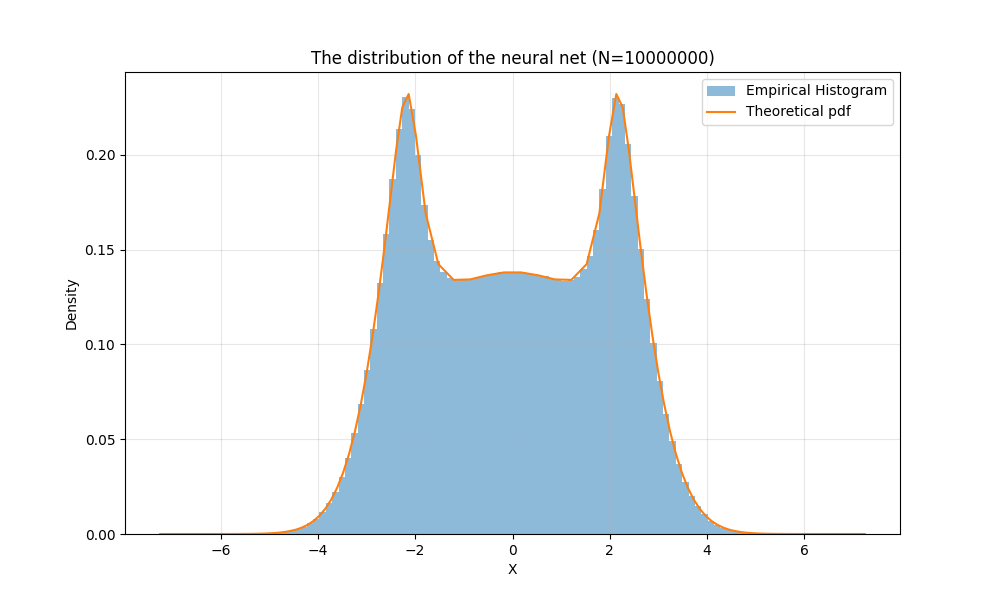
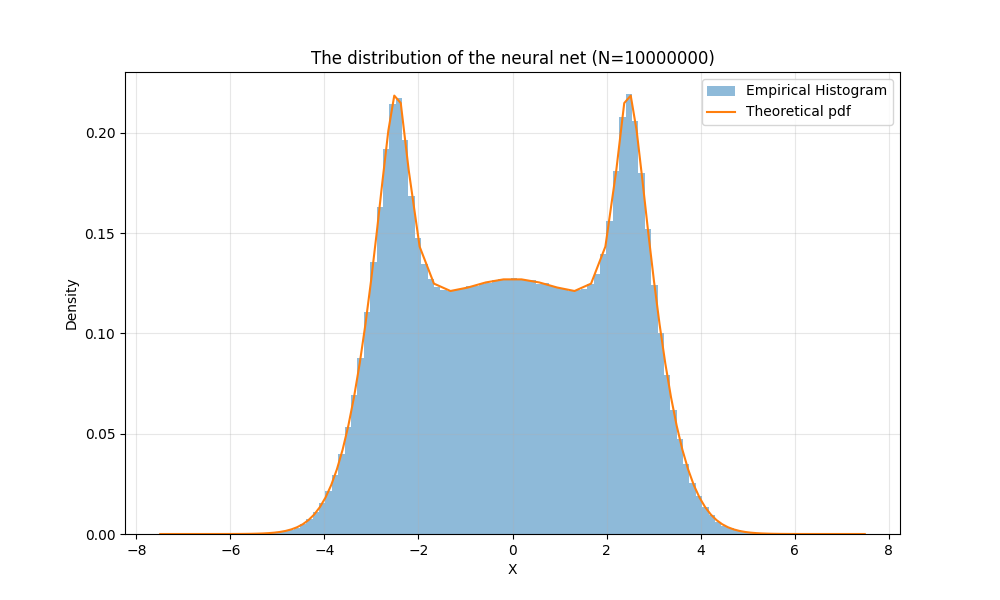
021726

diff --git a/SensitivityAnalysisModule/experiments/batman3.py b/SensitivityAnalysisModule/experiments/batman3.py
@@ -18,12 +18,13 @@ from src.model import (
     make_score_function, 
     make_mixing_likelihood_ratio,
     make_mixing_score_function,
-    loss_function, 
+    loss_function,
+    gradient_loss,
     Robbins_Monro
 )
 from src.utils import neural_net_plot, batman_plot, plot_diagnostic
 
-N_SAMPLES = 10000000
+N_SAMPLES = 1000000
 RNG = np.random.default_rng(17)
 CLIP_THRESHOLD = 100.0
 
@@ -42,6 +43,9 @@ d = 0.3
 a, b, c, d = 2.0, 0.5, 1.0, 0.2
 #
 
+
+
+
 theta = jnp.array([a, b, c, d])
 Z_space = np.linspace(-6.0, 6.0, 100)
 
@@ -57,17 +61,17 @@ Z_space = np.linspace(-6.0, 6.0, 100)
 V = lambda z: z**4
 
 learning_rate = 0.0005
-mixing_ratio = 0.5
+mixing_ratio = 0.1
 
-batch_size = 1000
+batch_size = 100
 num_iterations = N_SAMPLES // batch_size
 theta_history = []
 loss_history = []
 smoothed_loss_history = []
 
 # For training
-fast_score_fn = make_mixing_score_function(phi, 0.1)
-fast_L_fn = make_mixing_likelihood_ratio(f_jax, phi, 0.1)
+fast_score_fn = make_mixing_score_function(phi, mixing_ratio)
+fast_L_fn = make_mixing_likelihood_ratio(f_jax, phi, mixing_ratio)
 
 # For Estimation of the mean
 true_L_fn = make_likelihood_ratio(f_jax, phi)
@@ -104,7 +108,7 @@ for i in range(num_iterations):
         best_iter = i
 
     # 5. Run Optimizer
-    theta_new = Robbins_Monro(
+    theta_new, raw_grad, avg_grad = Robbins_Monro(
         z_sample,
         theta,
         learning_rate,
@@ -119,27 +123,28 @@ for i in range(num_iterations):
     theta = theta_new
     theta_history.append(theta)
 
-    if i % 1000 == 0:
-        print(f"Iter {i:>4}: Loss={mean_loss:.4f} | Theta={theta}")
+    if (i < 300 and i % 30 == 0) or (i >= 300 and i % 1000 == 0):
         # Calculate the actual estimate of the integral: Mean( V(x) * L(x) )
         # This should be close to 3.0
         x_current = phi(z_sample, theta)
         L_current = true_L_fn(z_sample, theta)
         integral_estimate = jnp.mean(V(x_current)* L_current)
-        print(f"Iter {i:>4}: Loss={mean_loss:.4f} | Estimate={integral_estimate:.4f}")
 
-print(f"\nFinal Theta:, {theta}, learning rate: {learning_rate}")
+        # Print theta AND the gradient magnitude
+        grad_mag = np.linalg.norm(raw_grad)
+        print(f"Iter {i:>4}: Loss={mean_loss:.4f} | Est={integral_estimate:.4f}")
+        print(f"           Theta: {theta}")
+        print(f"           Raw Grad : {raw_grad} (Mag: {grad_mag:.2f})")
+        print(f"           Trimmed Grad : {avg_grad}")
+
+print(f"\nFinal Theta:, {theta}, learning rate: {learning_rate}, mixing ratio: {mixing_ratio}")
 print(f"\nOptimal Theta, {best_theta}")
+
+
 
 # ---------- PLOTTING RESULTS ------------
 
-# 1. Process Data
-block_size = 100
-
-binned_loss = [np.mean(loss_history[i:i+block_size])
-            for i in range(0, len(loss_history), block_size)]
-
-# 2. Plot the Raw Data
+# 1. Plot the Raw Data
 plt.figure(figsize=(10, 5))
 plt.plot(loss_history, color='lightblue', alpha=0.5, label='Raw Batch Noise')
 
@@ -152,7 +157,7 @@ binned_loss = [np.mean(loss_history[i:i+block_size])
             for i in range(0, len(loss_history), block_size)]
 '''
 
-# 3. Plot the Smoothed Trend
+# 2. Plot the Smoothed Trend
 plt.plot(smoothed_loss_history, color='darkblue', linewidth=1.5, label='Smoothed Trend')
 plt.scatter(best_iter, best_smoothed_loss, color='red', s = 150, marker='*', label=f'Best Early Stop (Iter {best_iter})')
 

diff --git a/SensitivityAnalysisModule/src/model.py b/SensitivityAnalysisModule/src/model.py
@@ -325,7 +325,7 @@ def make_mixing_score_function(phi, p=0.1):
     """
     Computes the Mixture Score function using the derived scaling factor:
         S_mix = Beta * S_0
-        Beta = (1-p) / [p * phi_z + (1-p)]
+        Beta = (1-p) / [p * (f(x)/f(z)) * |phi_z| + (1-p)]
     The score function is the additional function generate after taking
     derivative of the variance 
     Input:
@@ -340,6 +340,9 @@ def make_mixing_score_function(phi, p=0.1):
     # phi_z: (d_phi / d_z)
     phi_z_fn = grad(phi, argnums=0)
 
+    def log_f(u):
+            return -0.5 * u**2
+
     def compute_mixing_score_batch(z_batch, theta):
         """
         Input:
@@ -347,16 +350,22 @@ def make_mixing_score_function(phi, p=0.1):
             theta: Parameters for the transformation function
         Output:
             S_mix = Beta * S_0 for
-            Beta = (1-p) / [p * phi_z + (1-p)]
+            Beta = (1-p) / [p * (f(x)/f(z)) * |phi_z| + (1-p)]
         """
         # 1. Get the original score S_0
         S_0 = original_score_fn(z_batch, theta)
 
         # 2. Calculate the scaling factor 
+        x_batch = phi(z_batch, theta)
         slopes = vmap(phi_z_fn, in_axes=(0, None))(z_batch, theta)
         abs_slopes = jnp.abs(slopes) + 1e-10
 
-        betas = (1 - p) / (p * abs_slopes + (1 - p))
+        # 3. Calculate the ratio f(x)/f(z)
+        # ratio = exp(log_f(x) - log_f(z))
+        log_ratio = log_f(x_batch) - log_f(z_batch)
+        ratio = jnp.exp(log_ratio)
+
+        betas = (1 - p) / (p * ratio * abs_slopes + (1 - p))
 
         # 3. Multiplication
         return betas[:, None] * S_0
@@ -449,7 +458,9 @@ def Robbins_Monro(z_batch, theta, step_size, f, phi, V, L, score_fn, clip_thresh
     # If nothing left, skip the step
     if len(clean_grads) == 0:
         print("Warning: All gradients exploded. Skipping step.")
-        return theta
+        return theta, np.zeros_like(theta)
+
+    raw_mean_grad = np.mean(clean_grads, axis=0)
 
     # 3. Trimmed Mean (For now getting rid of top 20% and bottom 20%)
     avg_grad = stats.trim_mean(clean_grads, 0.2)
@@ -463,10 +474,6 @@ def Robbins_Monro(z_batch, theta, step_size, f, phi, V, L, score_fn, clip_thresh
 
     # 6. CONSTRAINT CHOICES
     a_new, b_new, c_new, d_new = theta_new
-
-    '''
-    '''
-
 
     # Attempt 2: b, d > 0, c >= 0.5, a <=5, 2a - b/d > 1 restricts b
     # (so the tail doesn't cluster like crazy)
@@ -532,4 +539,4 @@ def Robbins_Monro(z_batch, theta, step_size, f, phi, V, L, score_fn, clip_thresh
     # 7. Formulating final theta
     theta_final = jnp.array([a_new, b_new, c_new, d_new])
 
-    return theta_final
+    return theta_final, raw_mean_grad, avg_grad

diff --git a/SensitivityAnalysisModule/experiments/batman2.py b/SensitivityAnalysisModule/experiments/batman2.py
@@ -92,7 +92,7 @@ for i in range(num_iterations):
         best_iter = i
 
     # 5. Run Optimizer
-    theta_new = Robbins_Monro(
+    theta_new, current_grad = Robbins_Monro(
         z_sample,
         theta,
         learning_rate,
@@ -107,14 +107,18 @@ for i in range(num_iterations):
     theta = theta_new
     theta_history.append(theta)
 
-    if i % 1000 == 0:
-        print(f"Iter {i:>4}: Loss={mean_loss:.4f} | Theta={theta}")
+    if (i < 300 and i % 30 == 0) or (i >= 300 and i % 1000 == 0):
         # Calculate the actual estimate of the integral: Mean( V(x) * L(x) )
         # This should be close to 3.0
         x_current = phi(z_sample, theta)
         L_current = fast_L_fn(z_sample, theta)
         integral_estimate = jnp.mean(V(x_current)* L_current)
-        print(f"Iter {i:>4}: Loss={mean_loss:.4f} | Estimate={integral_estimate:.4f}")
+
+        # Print theta AND the gradient magnitude
+        grad_mag = np.linalg.norm(current_grad)
+        print(f"Iter {i:>4}: Loss={mean_loss:.4f} | Est={integral_estimate:.4f}")
+        print(f"           Theta: {theta}")
+        print(f"           Grad : {current_grad} (Mag: {grad_mag:.2f})")
 
 print(f"\nFinal Theta:, {theta}, learning rate: {learning_rate}")
 print(f"\nOptimal Theta, {best_theta}")
